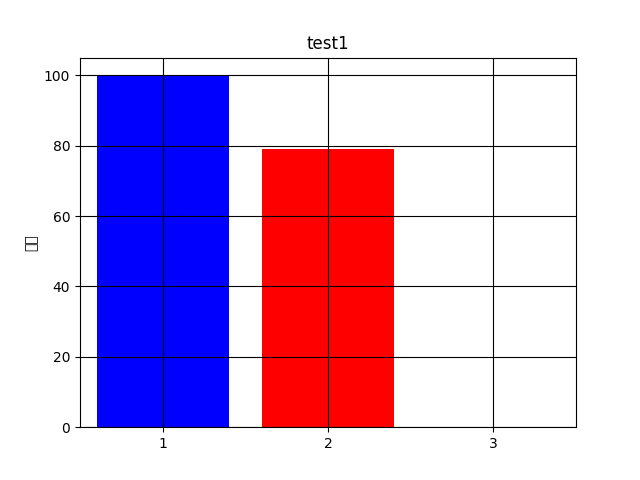
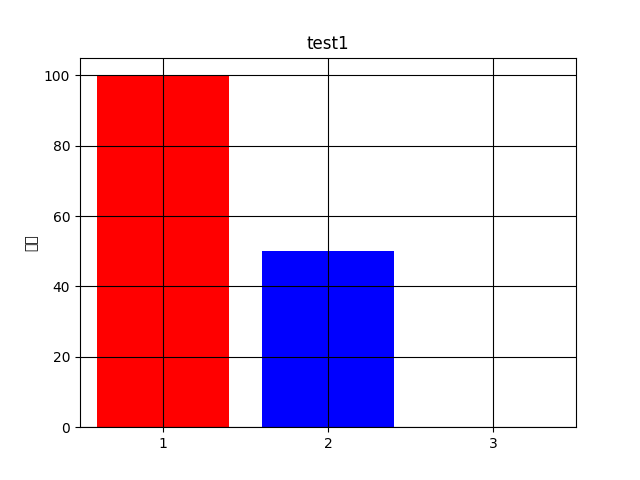
main

Changed region(s): [[0.125, 0.1562, 0.375, 0.9062], [0.4062, 0.3125, 0.625, 0.9062]]

diff --git a/templates/student_detail.html b/templates/student_detail.html
@@ -1,26 +1,42 @@
 <!DOCTYPE html>
 <html>
 <head>
+  <link rel="stylesheet" href="https://stackpath.bootstrapcdn.com/bootstrap/4.3.1/css/bootstrap.min.css" integrity="sha384-ggOyR0iXCbMQv3Xipma34MD+dH/1fQ784/j6cY/iJTQUOhcWr7x9JvoRxT2MZw1T" crossorigin="anonymous">
+  
   <title>生徒の詳細画面</title>
   <meta charset="utf-8">
   <link href="" rel="stylesheet">
 </head>
 <body>
+
+
+  <div class="nav-item dropdown">
+    <a class="nav-link dropdown-toggle" href="#" id="navbarDropdownMenuLink" role="button" data-toggle="dropdown" aria-haspopup="true" aria-expanded="false">
+      dropdown
+    </a>
+    <div class="dropdown-menu" aria-labelledby="navbarDropdown">
+      <ul>
+    {% for testkey, testname in params.test_names.items() %}
+      <li><a class="dropdown-item" href="/view_profile/{{ params.student.id }}/score_graph_{{testkey}}">{{ testname }}</a></li>
+    {% endfor %}
+      </ul>
+
+    </div>
+  </li>
+
+
+
     <h2><br>　　　　生徒詳細</h2>
     <img src="/static/student_images/user.png" alt="" title="">
     {{ params.student.id }}
     {{ params.student.name }}
     <img src="/{{ params.image }}" />
     <form action="/view_profile/{{ params.student.id }}"  methods="POST">
-
       <input type="submit" value="出席率">
     </form>
-    {% for testkey, testname in params.test_names.items() %}
-    <form action="/view_profile/{{ params.student.id }}/score_graph_{{testkey}}"  methods="POST">
 
-      <input type="submit" value="{{ testname }}">
-    </form>
-    {% endfor %}
+
+
 
 </body>
 </html>

diff --git a/app.py b/app.py
@@ -11,6 +11,7 @@ from matplotlib.backends.backend_agg import FigureCanvasAgg
 import pandas as pd
 import numpy as np
 from flask import Flask,render_template, request, redirect, url_for ,make_response
+import japanize_matplotlib
 #pip install flask
 
 import psycopg2 #pip install psycopg2
@@ -331,19 +332,20 @@ def histogram(student_id, test_key):
         x = []  
         for student in students:
             x.append(student["test"][test_key])
-        sorted_x = list(set(sorted(x, reverse=True)))
+        sorted_x = sorted(list(set(x)),reverse=True)
         print(sorted_x)
         fig, ax = plt.subplots()
         y = range(1, len(sorted_x)+1) 
         for student in students:
-
+            #　自分の点数の色を変更する
             if student["id"] == student_id:
                 color = ["red" if i == student["test"][test_key] else "blue" for i in sorted_x]
-        ax.bar(y,sorted_x,color=color)
+
+        ax.bar(y, sorted_x, color=color)
         plt.title(f"{test_names[test_key]}")
         # そのテスト受講者の学生の人数分
-        plt.xlim(0.5,len(x)+0.5)
-        plt.xticks(np.arange(1, len(x)+1, step=1))
+        plt.xlim(0.5,len(sorted_x)+0.5)
+        plt.xticks(np.arange(1, len(sorted_x)+1, step=1))
         plt.ylabel("点数")
         plt.grid(c="black")
         plt.tick_params(labelsize = 10)
